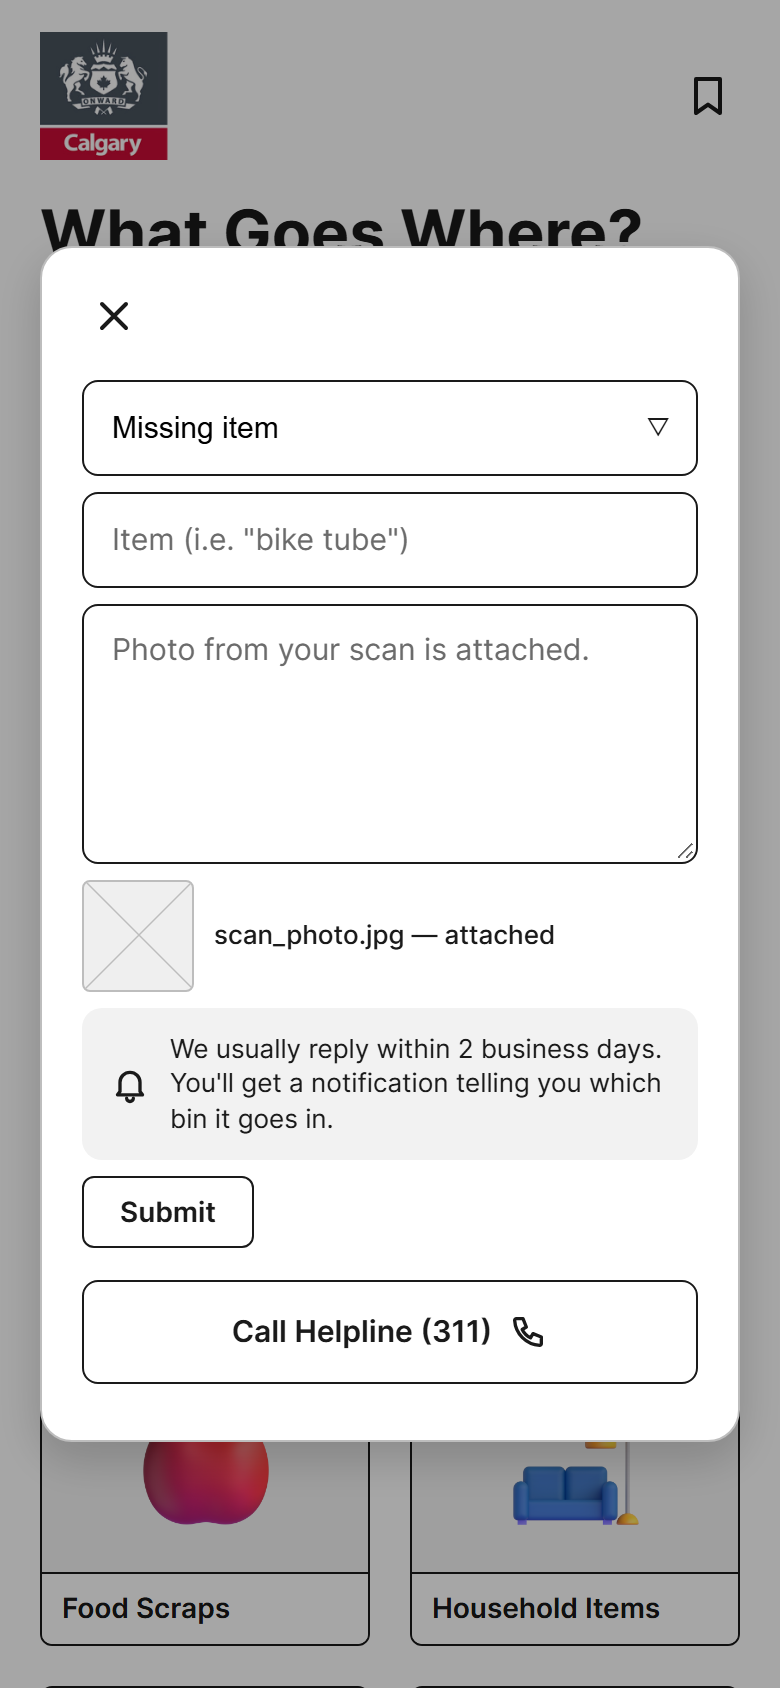
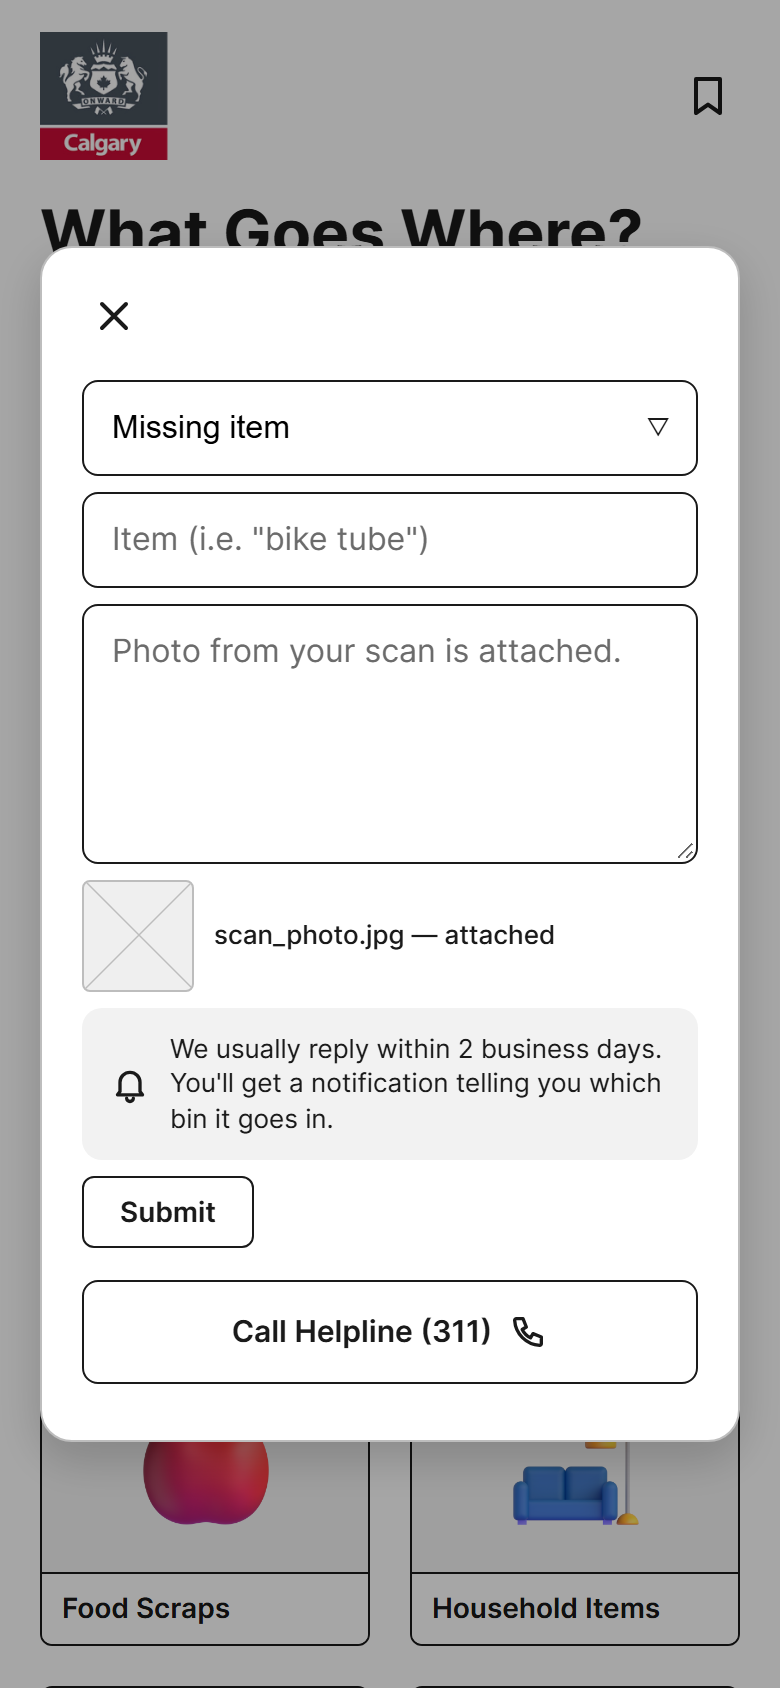
Stop iPhone from zooming in when a text field is tapped

Changed region(s): [[0.1538, 0.3697, 0.8, 0.4005], [0.1538, 0.3081, 0.5538, 0.3389], [0.1538, 0.2464, 0.3692, 0.2773]]

diff --git a/css/style.css b/css/style.css
@@ -53,6 +53,8 @@ h1, h2, h3, p, ul { margin: 0; }
 ul { padding: 0; list-style: none; }
 a { color: inherit; }
 button, input, textarea { font: inherit; color: inherit; }
+/* Text fields need at least 16 px text: below that, iPhone Safari zooms in when you tap one and stays zoomed. */
+input, select, textarea { font-size: 16px; }
 button { cursor: pointer; background: none; border: 0; padding: 0; text-align: left; }
 img { display: block; }
 [hidden] { display: none !important; }
@@ -159,7 +161,7 @@ img { display: block; }
   border: 1.5px solid var(--ink); border-radius: 8px; background: var(--paper);
 }
 .field:focus-within { border: 2.5px solid var(--link-blue); padding-left: 13px; padding-right: 5px; }
-.field input { flex: 1; min-width: 0; height: 100%; border: 0; background: transparent; outline: none; font-size: 15px; }
+.field input { flex: 1; min-width: 0; height: 100%; border: 0; background: transparent; outline: none; font-size: 16px; }
 .field input::placeholder { color: var(--gray-2); }
 .field input::-webkit-search-cancel-button { display: none; }
 .field-btn { display: grid; place-items: center; padding: 10px; margin: -6px -4px; border-radius: 8px; }
@@ -333,7 +335,7 @@ button.letter:hover { background: var(--soft); }
 
 .form { display: flex; flex-direction: column; gap: 8px; }
 .form-label { font-weight: 600; }
-.input { width: 100%; min-height: 48px; padding: 12px 14px; background: var(--paper); border: 1.5px solid var(--ink); border-radius: 8px; font-size: 15px; }
+.input { width: 100%; min-height: 48px; padding: 12px 14px; background: var(--paper); border: 1.5px solid var(--ink); border-radius: 8px; font-size: 16px; }
 .input:focus { border-color: var(--link-blue); outline: 1px solid var(--link-blue); }
 .input.has-error { border-color: var(--danger); }
 textarea.input { resize: vertical; }

diff --git a/docs/PROJECT-STATE.md b/docs/PROJECT-STATE.md
@@ -78,7 +78,7 @@ From the assignment brief and the D2L rubric. Grades reward quality and polish o
 - No dead ends: Language now says "English for now" before you pick; Directions opens a real map search.
 - Shortcuts for experts: typing an item's exact name opens its answer directly; suggestions; A–Z letters; Next item. Show them in the video.
 - Error handling, exits, feedback, memory load, consistency: in place (Did you mean, no-result screen, Undo, back and close everywhere, Saved).
-- Stability: test every walkthrough on a real iPhone and Android phone.
+- Stability: test every walkthrough on a real iPhone and Android phone. Fixed so far: on iPhone, tapping a text field zoomed the page in and it stayed zoomed (all fields now use 16 px text).
 
 ## To do from now on
 
